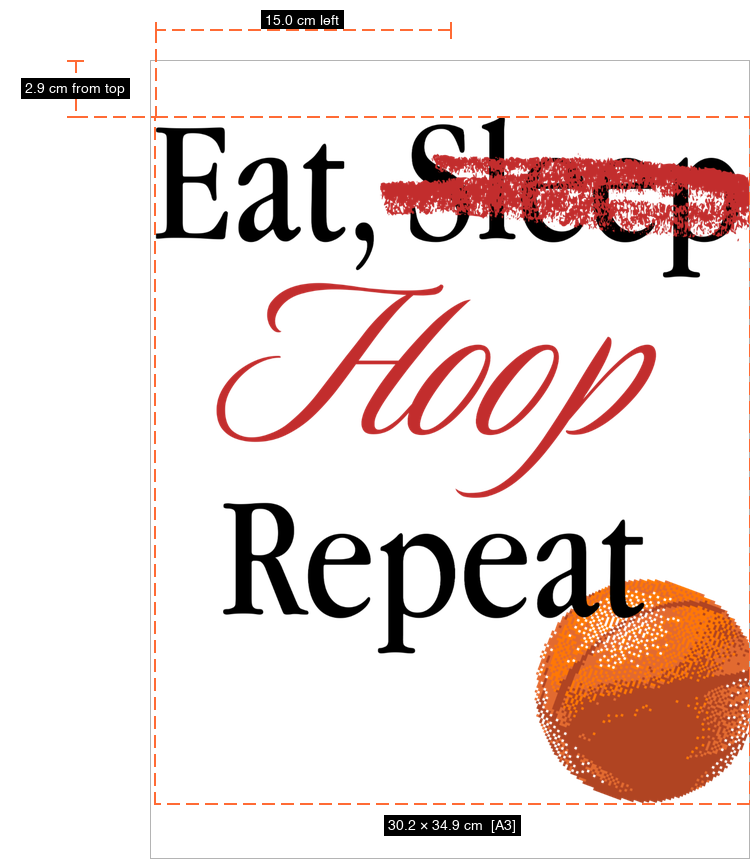
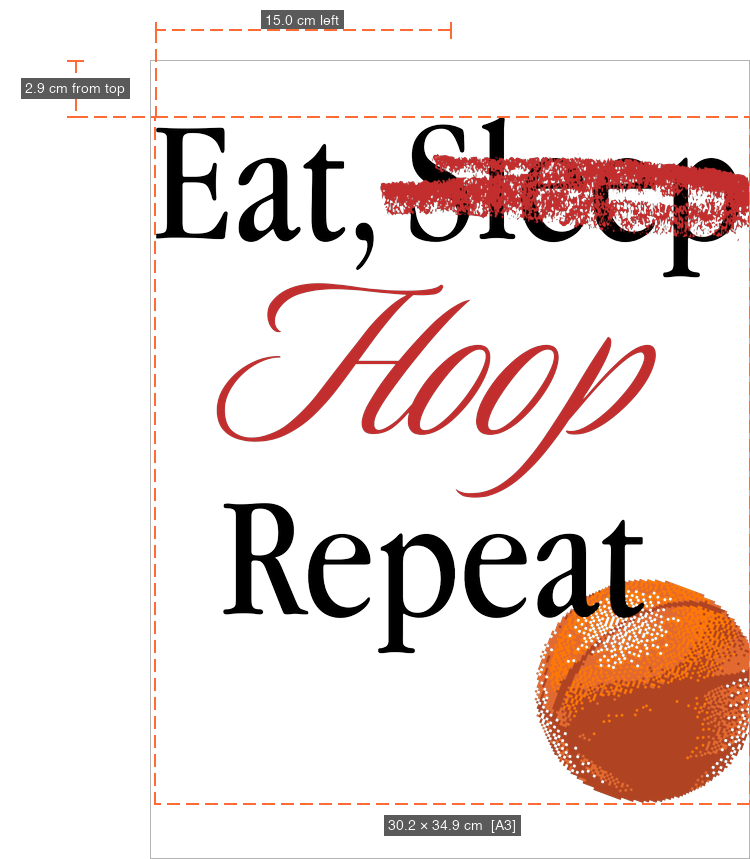
feat: Preserve image transparency in the annotation script and update annotated test images.

diff --git a/tools/annotate_print.py b/tools/annotate_print.py
@@ -15,7 +15,7 @@ import numpy as np
 from PIL import Image, ImageDraw, ImageFont
 
 # ─── CONFIG ──────────────────────────────────────────────────────────────────
-INPUT_PATH    = "/Volumes/My Passport/Personal_Project/PimSuea/tools/test_data/IBC_front_printfile.png"   # ← set this
+INPUT_PATH    = "/Volumes/My Passport/Personal_Project/PimSuea/tools/test_data/IBC_back_printfile.png"   # ← set this
 OUTPUT_PATH   = None                        # None = auto: <input>_annotated.png
 PHYSICAL_W_CM = 30.48                       # 12 inches
 PHYSICAL_H_CM = 40.64                       # 16 inches
@@ -141,17 +141,14 @@ def annotate(input_path: str, output_path: str | None = None):
     scale = 1 / PREVIEW_DIV
     pw, ph = max(1, int(W * scale)), max(1, int(H * scale))
 
-    # Downscale the original image as background
+    # Downscale the original image as background (keep transparency)
     thumb = img_full.resize((pw, ph), Image.LANCZOS).convert("RGBA")
-    bg = Image.new("RGBA", (pw, ph), (255, 255, 255, 255))
-    bg.paste(thumb, mask=thumb)
-    thumb = bg.convert("RGB")
 
     # Expand canvas with margins so annotations always have room
     total_w = pw + MARGIN_LEFT
     total_h = ph + MARGIN_TOP
-    canvas = Image.new("RGB", (total_w, total_h), (255, 255, 255))
-    canvas.paste(thumb, (MARGIN_LEFT, MARGIN_TOP))
+    canvas = Image.new("RGBA", (total_w, total_h), (0, 0, 0, 0))
+    canvas.paste(thumb, (MARGIN_LEFT, MARGIN_TOP), mask=thumb)
 
     draw = ImageDraw.Draw(canvas)
 
